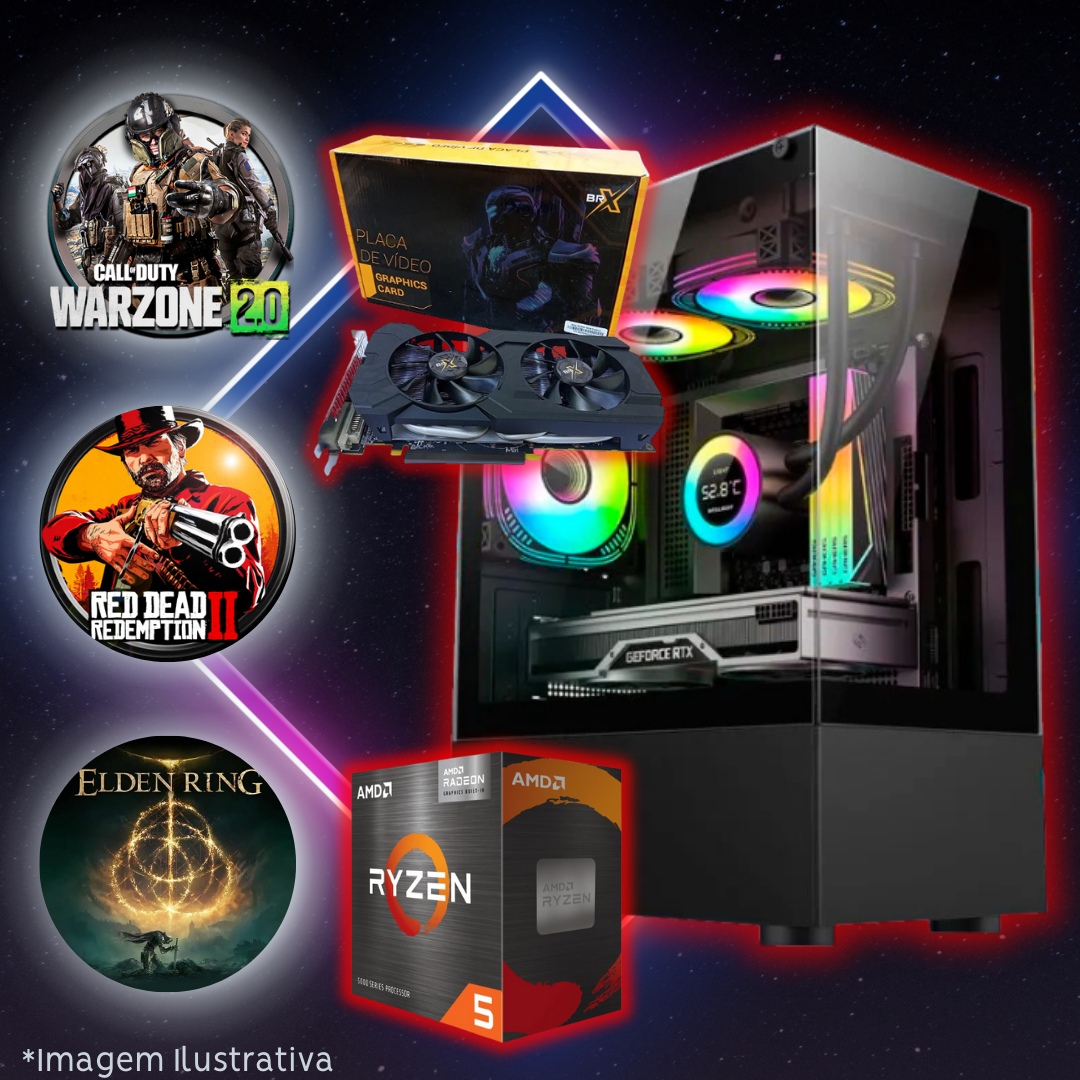
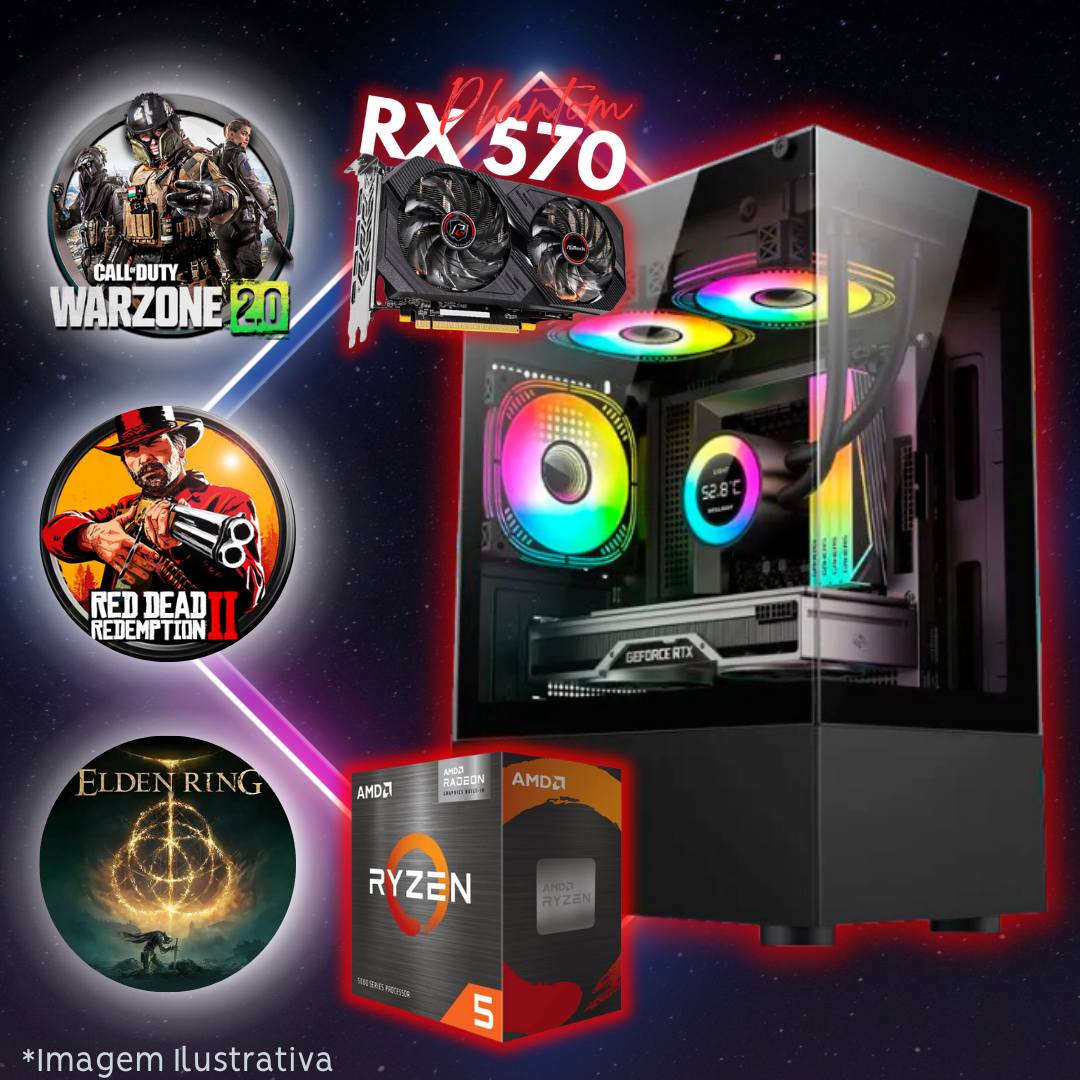
AMD PC Nº6 UPDATED

diff --git a/src/routes/amd/+page.svelte b/src/routes/amd/+page.svelte
@@ -39,9 +39,9 @@
 
     // R$ 3.890,00
     {
-      title: "Nº6 - (PC0045) RYZEN 4500 + RX 580 8GB",
+      title: "Nº6 - (PC0045) RYZEN 4500 + RX 570 8GB",
       image: "PC0045.png",
-      text: "*Máquina ideal para Jogos como:* \n 💥 FREE FIRE \n 🌎 MINECRAFT \n 🟥 ROBLOX \n🚔 GTA 5/RP\n 🔫 CSGO/VALORANT \n🦙 FORTNITE\n\n*Processador:* RYZEN 5 4500\n*Placa Mãe:* A520\n*Memória RAM:* 2x8GB (16GB) DDR4\n*Placa de Vídeo:* RX 580 8GB\n*Armazenamento:* SSD 480GB\n*Gabinete:* GAMER C/3 FANS RGB\n*Fonte:* 500W\n\nPOR APENAS *R$ 3.890,00* em até 10x sem juros!\n\n*FFormas de Pagamento:*\n💳 Cartão - Débito à vista ou Crédito em até 10x *SEM JUROS*\n❖ Pix á Vista\n❌ NÃO aceitamos pagamento via boleto bancário\n🔥 Não perca essa chance de melhorar seu setup e jogar com qualidade! 🔥\n\n",
+      text: "*Máquina ideal para Jogos como:* \n 💥 FREE FIRE \n 🌎 MINECRAFT \n 🟥 ROBLOX \n🚔 GTA 5/RP\n 🔫 CSGO/VALORANT \n🦙 FORTNITE\n\n*Processador:* RYZEN 5 4500\n*Placa Mãe:* A520\n*Memória RAM:* 2x8GB (16GB) DDR4\n*Placa de Vídeo:* RX 570 8GB\n*Armazenamento:* SSD 480GB\n*Gabinete:* GAMER C/3 FANS RGB\n*Fonte:* 500W\n\nPOR APENAS *R$ 3.890,00* em até 10x sem juros!\n\n*FFormas de Pagamento:*\n💳 Cartão - Débito à vista ou Crédito em até 10x *SEM JUROS*\n❖ Pix á Vista\n❌ NÃO aceitamos pagamento via boleto bancário\n🔥 Não perca essa chance de melhorar seu setup e jogar com qualidade! 🔥\n\n",
     },
 
     // R$ 4.490,00
